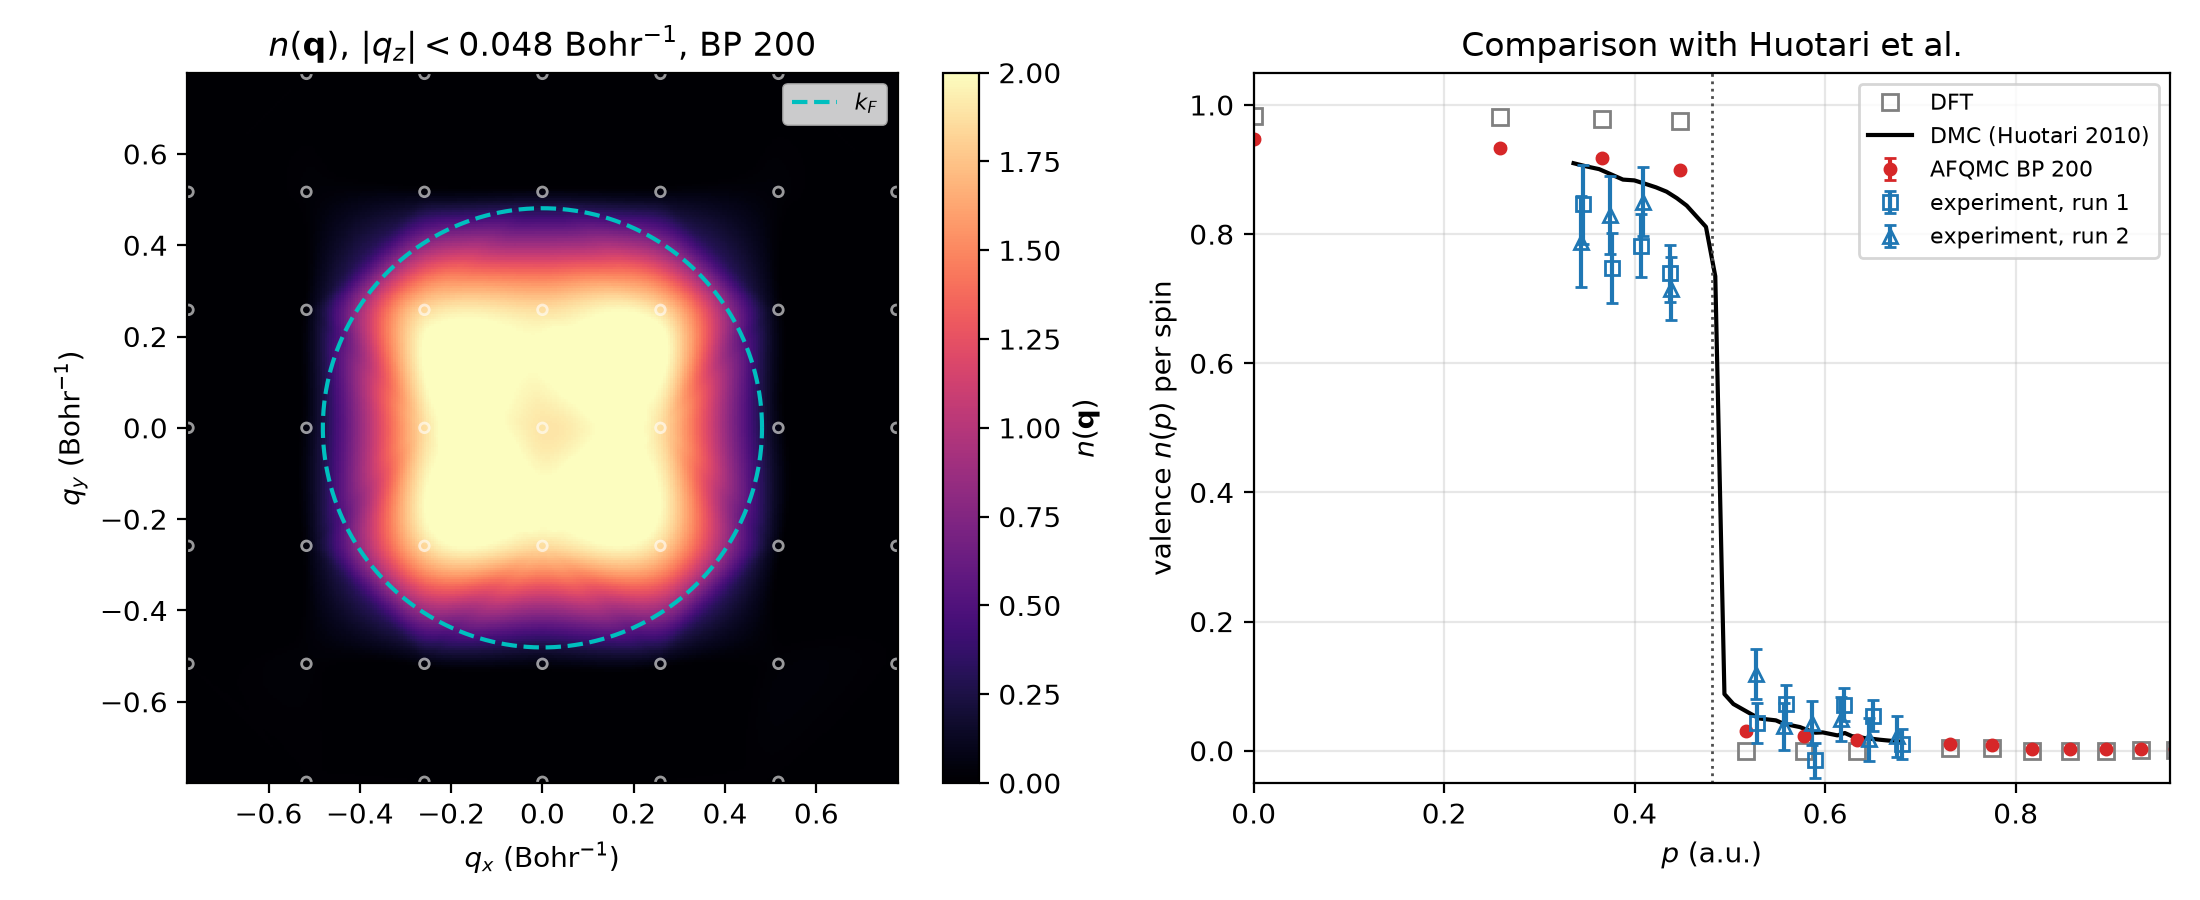
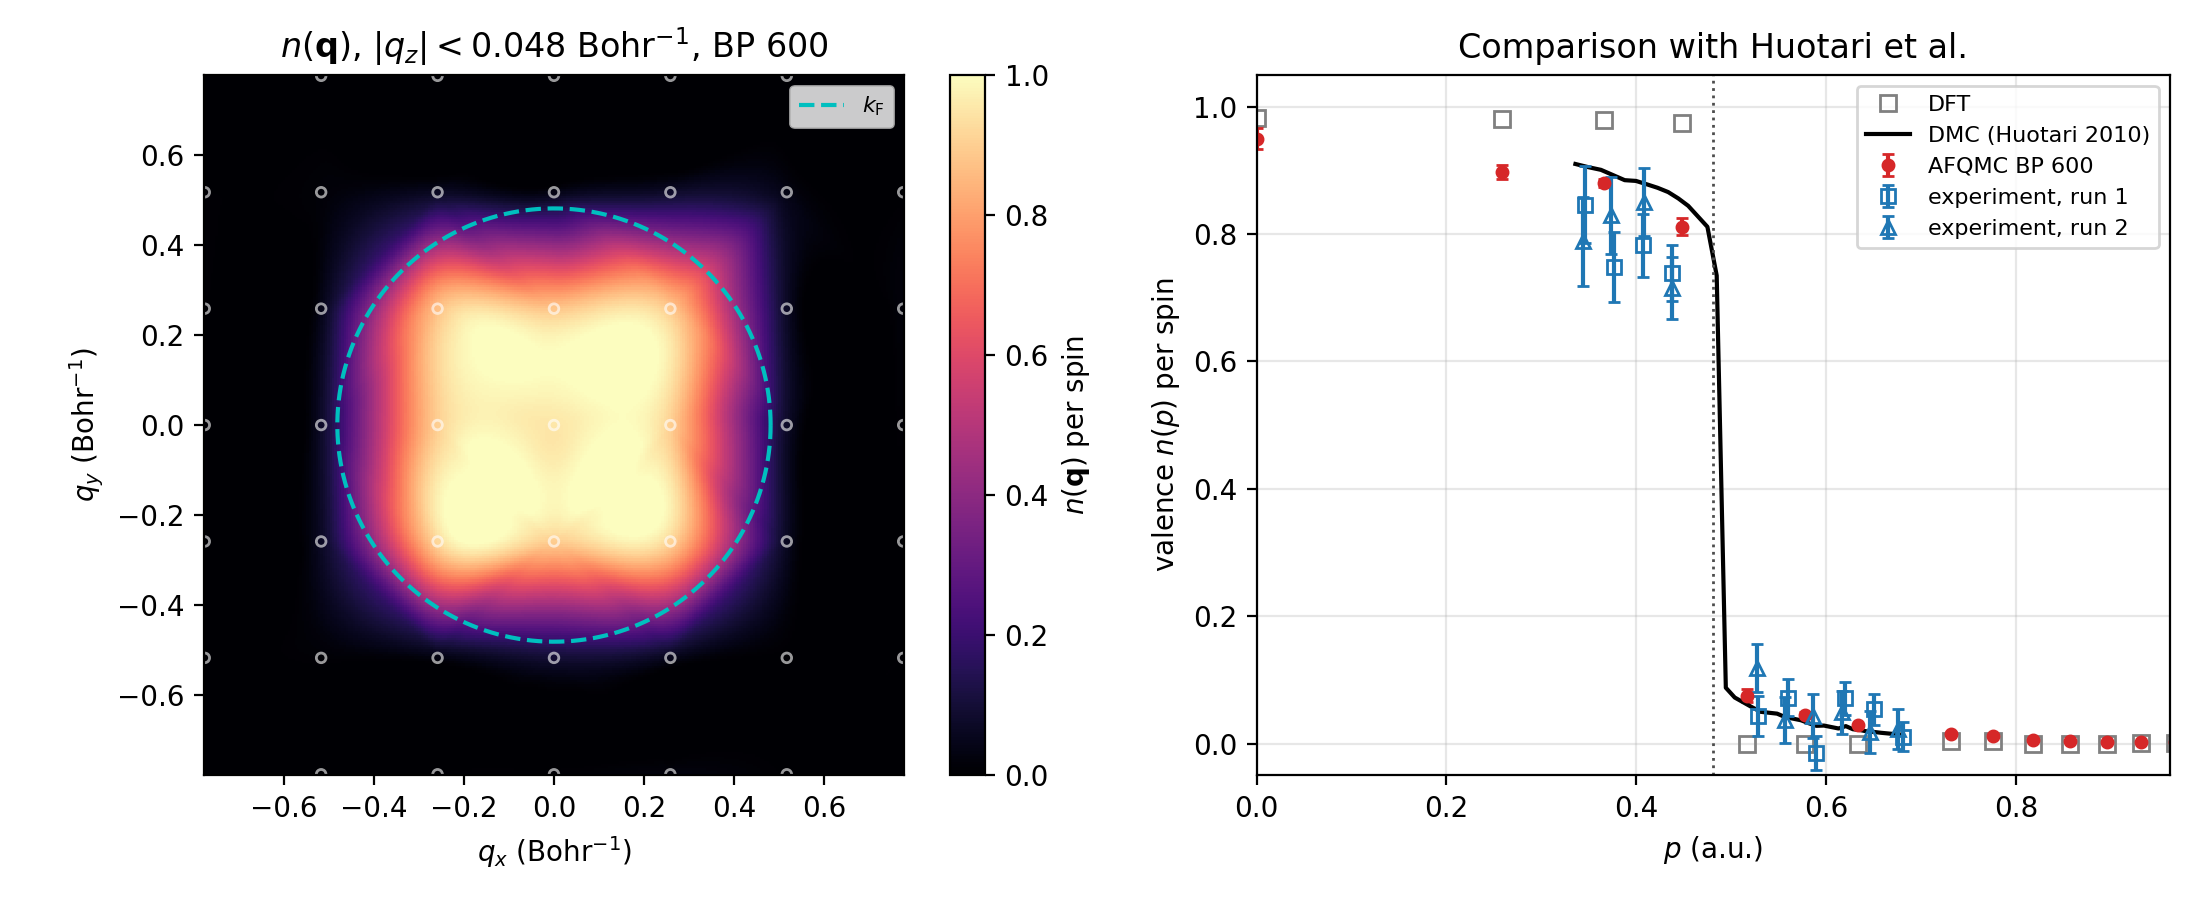
docs/examples: edit solids/03

diff --git a/docs/examples/solids/03_Na_momentum_distribution/files/nq_tools.py b/docs/examples/solids/03_Na_momentum_distribution/files/nq_tools.py
@@ -66,18 +66,18 @@ def fermi_wavevector(volume, n_electrons):
 
 
 def plot_slab(ax, qvecs, nq, k_F):
-    """n(q) in the |q_z| < 0.1 k_F slab, interpolated, with the q-points and the k_F circle."""
+    """Per-spin n(q) in the |q_z| < 0.1 k_F slab, interpolated, with the q-points and the k_F circle."""
     qz_tol = 0.1 * k_F
     slab = (np.abs(qvecs[:, 2]) < qz_tol) & (np.linalg.norm(qvecs, axis=1) < 2 * k_F)
     qx, qy, ns = qvecs[slab, 0], qvecs[slab, 1], nq[slab]
     xi, yi = np.meshgrid(np.linspace(qx.min(), qx.max(), 300),
                          np.linspace(qy.min(), qy.max(), 300))
     grid = np.nan_to_num(griddata((qx, qy), ns, (xi, yi), method="cubic"))
-    pc = ax.pcolormesh(xi, yi, grid, shading="auto", cmap="magma", vmin=0, vmax=2)
-    ax.scatter(qx, qy, c=ns, cmap="magma", vmin=0, vmax=2, s=12, edgecolors="white", alpha=0.6)
-    ax.figure.colorbar(pc, ax=ax, label=r"$n(\mathbf{q})$")
+    pc = ax.pcolormesh(xi, yi, grid, shading="auto", cmap="magma", vmin=0, vmax=1)
+    ax.scatter(qx, qy, c=ns, cmap="magma", vmin=0, vmax=1, s=12, edgecolors="white", alpha=0.6)
+    ax.figure.colorbar(pc, ax=ax, label=r"$n(\mathbf{q})$ per spin")
     t = np.linspace(0, 2 * np.pi, 200)
-    ax.plot(k_F * np.cos(t), k_F * np.sin(t), "c--", lw=1.5, label=r"$k_F$")
+    ax.plot(k_F * np.cos(t), k_F * np.sin(t), "c--", lw=1.5, label=r"$k_\mathrm{F}$")
     ax.set(xlabel=r"$q_x$ (Bohr$^{-1}$)", ylabel=r"$q_y$ (Bohr$^{-1}$)", aspect="equal",
            title=rf"$n(\mathbf{{q}})$, $|q_z| < {qz_tol:.3f}$ Bohr$^{{-1}}$")
     ax.legend(loc="upper right", fontsize=8)

diff --git a/docs/examples/solids/03_Na_momentum_distribution/index.md b/docs/examples/solids/03_Na_momentum_distribution/index.md
@@ -11,7 +11,7 @@ kernelspec:
   name: python3
 ---
 
-# Momentum distribution of solid Na
+# Momentum Distribution of Solid Na
 
 In this example, we compute the valence momentum distribution $n(\mathbf{q})$ of bcc sodium with
 back-propagated AFQMC and compare it with the Compton-scattering experiment and DMC of
@@ -27,7 +27,7 @@ which fill the free-electron shells 1 + 6 + 12 + 8 per spin exactly.
 
 ![](files/Na_bcc_cell.png)
 
-## Momentum distribution from the one-body density matrix
+## Momentum Distribution from the One-Body Density Matrix
 
 SAFIRE measures the one-body density matrix in the basis of Kohn-Sham Bloch orbitals,
 $\rho_{ij}(\mathbf{k}) = \langle c^\dagger_{i\mathbf{k}} c_{j\mathbf{k}} \rangle$, which is block-diagonal in $\mathbf{k}$.
@@ -42,7 +42,6 @@ The density matrix does not commute with the Hamiltonian, so we use the back-pro
 (see {doc}`../../../tutorials/solids/04_computing_observables/04_computing_observables`).
 The plane-wave coefficients come from the QE wavefunction files, and `files/nq_tools.py` does the unfolding.
 
-Each step is skipped when its output already exists in `data/`.
 Set `QE_BIN` to the directory holding `pw.x` and `pw2coqui.x`, and `COQUI_EXEC` and `AFQMC_EXEC` to the
 CoQuí and SAFIRE executables.
 
@@ -54,8 +53,7 @@ from pathlib import Path
 import h5py
 import matplotlib.pyplot as plt
 import numpy as np
-from safiretools import Results, write_jobfile
-from safiretools.wavefunction.base import Wavefunction
+from safiretools import Results, Wavefunction, write_jobfile
 
 from files.nq_tools import fermi_wavevector, plot_slab, radial_average, read_qe_orbitals, unfold_nq
 
@@ -72,13 +70,12 @@ An scf run on an $8\times8\times8$ mesh gives the density, and an nscf run compu
 $3\times3\times3$ mesh without symmetry reduction. `pw2coqui.x` converts the result for CoQuí.
 
 ```{code-cell} ipython3
-if not (data / "1_dft_qe/OUT/pwscf.coqui.h5").exists():
-    !cd {data}/1_dft_qe && mpirun -n {NP} $QE_BIN/pw.x -in scf.in > scf.out
-    !cd {data}/1_dft_qe && mpirun -n {NP} $QE_BIN/pw.x -in nscf.in > nscf.out
-    !cd {data}/1_dft_qe && $QE_BIN/pw2coqui.x -in pw2coqui.in > pw2coqui.out
+!cd {data}/1_dft_qe && mpirun -n {NP} $$QE_BIN/pw.x -in scf.in > scf.out
+!cd {data}/1_dft_qe && mpirun -n {NP} $$QE_BIN/pw.x -in nscf.in > nscf.out
+!cd {data}/1_dft_qe && $$QE_BIN/pw2coqui.x -in pw2coqui.in > pw2coqui.out
 ```
 
-## Step 2: Hamiltonian and trial wavefunction with CoQuí
+## Step 2: Hamiltonian and Trial Wavefunction with CoQuí
 
 CoQuí writes the Hamiltonian in the basis of the lowest 19 bands per k (513 orbitals), with Cholesky-decomposed
 two-electron integrals, and the Kohn-Sham determinant as the trial wavefunction.
@@ -89,8 +86,7 @@ two-electron integrals, and the Kohn-Sham determinant as the trial wavefunction.
 ```
 
 ```{code-cell} ipython3
-if not (data / "2_coqui/hamiltonian.h5").exists():
-    !cd {data}/2_coqui && mpirun -n {NP} $COQUI_EXEC input.toml > coqui.out
+!cd {data}/2_coqui && mpirun -n {NP} $$COQUI_EXEC input.toml > coqui.out
 
 with h5py.File(data / "2_coqui/hamiltonian.h5") as f:
     kpoints = f["System/BZ/kpoints"][...]
@@ -105,50 +101,51 @@ print(f"nk = {nk}, NMO = {nk * M}, k_F = {k_F:.4f} Bohr^-1")
 
 CoQuí writes a collinear trial with identical spin determinants. We rebuild it as a closed-shell trial,
 so that SAFIRE can use closed-shell walkers, which propagate one spin.
-The back-propagated density matrix is measured with 50, 100, 150 and 200 back-propagation steps.
-A new window starts every 200 steps after equilibration, so each length gives one sample per window,
-and `binsize` is 1.
+The back-propagated density matrix is measured at each back-propagation length in `bp_lengths`.
+A new window starts every `max(bp_lengths)` steps after equilibration, so each length gives one sample per window.
 
 ```{code-cell} ipython3
 alpha, beta = Wavefunction.from_hdf5(data / "2_coqui/wfn.h5").determinant(0)
 assert np.allclose(alpha, beta)
 
+bp_lengths = [100, 200]
+# bp_lengths = [100, 200, 400, 600] # takes some time
 write_jobfile(data / "3_safire/afqmc.json", {
     "seed": 7,
     "execute": {
-        "walker_set": {"walker_type": "closed"},
         "wavefunction": Wavefunction.from_single_determinant(alpha),
         "hamiltonian": {"filename": "../2_coqui/hamiltonian.h5"},
         "timestep": 0.01,
         "steps": 5000,
         "equilibration_steps": 600,
-        "binsize": 1,
         "measure_interval": 10,
         "population_control_interval": 10,
         "walker_ortho_interval": 10,
-        "num_walkers": 120,
+        "num_walkers": 40,
         "estimators": {
-            "energy": {"measure_interval": 100},
-            "mixed": {"measure_interval": 100, "onerdm": {}},
-            "backprop": {"propagation_steps": [50, 100, 150, 200], "onerdm": {}},
+            "energy": None,
+            "backprop": {"propagation_steps": bp_lengths, "onerdm": {}},
         },
     },
 })
 ```
 
 ```{code-cell} ipython3
-if not (data / "3_safire/afqmc.results.h5").exists():
-    !cd {data}/3_safire && mpirun -n {NP} $AFQMC_EXEC afqmc.json > afqmc.out
-results = Results(data / "3_safire/afqmc.results.h5")
+:tags: [scroll-output]
+
+!cd {data}/3_safire && mpirun -n {NP} $$AFQMC_EXEC afqmc.json
 ```
 
-## Step 4: Momentum distribution
+## Step 4: Momentum Distribution
 
 We unfold the Kohn-Sham occupations for the DFT $n(\mathbf{q})$, and the back-propagated density matrix inside
 `Results.evaluate` for jackknife error bars on its radial average.
-Each back-propagation length has 22 bins, which we keep with `rebinsize=1`.
+Each BP sample is separated by a window length, so for long window lengths we can assume they are weakly
+correlated and set `rebinsize=1`.
 
 ```{code-cell} ipython3
+results = Results(data / "3_safire/afqmc.results.h5")
+
 qvecs, coeffs = read_qe_orbitals(data / "1_dft_qe/OUT/pwscf.save", kpoints, M)
 qmag = np.linalg.norm(qvecs, axis=1)
 edges = np.linspace(0, 2.5 * k_F, 81)
@@ -160,7 +157,7 @@ def radial_nq(rdm):
 n_dft = radial_nq(np.diag(occ.ravel())[None])
 
 bp = {}
-for L in [50, 100, 150, 200]:
+for L in bp_lengths:
     bp[L] = results.evaluate(radial_nq, [f"BackPropEstimator/Steps={L}/OneRDM"], rebinsize=1)
 above = np.argmax(q_bins > k_F)  # first radial bin above k_F
 print(f"n(q) at |q| = {q_bins[above]:.3f} Bohr^-1: DFT {n_dft[above]:.3f}")
@@ -168,11 +165,9 @@ for L, (n, dn) in bp.items():
     print(f"  BP {L:3d}: {n[above]:.3f} +/- {dn[above]:.3f}")
 ```
 
-Back propagation moves electrons above $k_F$, and the amount still grows with the back-propagation length.
-Back propagation becomes unstable at long lengths, so we use 200 steps ($\tau = 2$ Ha$^{-1}$) and keep in mind
-that the result depends on this choice.
+Back propagation moves electrons above $k_\mathrm{F}$, and the amount still grows with the back-propagation length.
 
-## Comparison with DMC and experiment
+## Comparison with DMC and Experiment
 
 The experimental and DMC data were extracted from Fig. 1 of Huotari *et al.* and are per spin, so we divide ours by 2.
 Our cell has the experimental density, so we compare on absolute momentum.
@@ -184,15 +179,17 @@ with open("files/huotari2010_fig1_nofp.csv") as f:
 def huotari(series, *columns):
     return np.array([[float(r[c]) for c in columns] for r in rows if r["series"] == series]).T
 
-bp_rdm, _ = results.average("BackPropEstimator/Steps=200/OneRDM", rebinsize=1)
+max_bp_length = max(bp_lengths)
+
+bp_rdm, _ = results.average(f"BackPropEstimator/Steps={max_bp_length}/OneRDM", rebinsize=1)
 
 fig, (ax0, ax1) = plt.subplots(1, 2, figsize=(11, 4.5))
-plot_slab(ax0, qvecs, unfold_nq(bp_rdm, coeffs), k_F)
-ax0.set_title(ax0.get_title() + ", BP 200")
+plot_slab(ax0, qvecs, unfold_nq(bp_rdm, coeffs) / 2, k_F)
+ax0.set_title(ax0.get_title() + f", BP {max_bp_length}")
 
 ax1.plot(q_bins, n_dft / 2, "s", color="0.5", mfc="none", ms=6, label="DFT")
-n, dn = bp[200]
-ax1.errorbar(q_bins, n / 2, yerr=dn / 2, fmt="o", color="C3", ms=4, capsize=2, label="AFQMC BP 200")
+n, dn = bp[max_bp_length]
+ax1.errorbar(q_bins, n / 2, yerr=dn / 2, fmt="o", color="C3", ms=4, capsize=2, label=f"AFQMC BP {max_bp_length}")
 p, n = huotari("QMC", "p_au", "n")
 ax1.plot(p, n, "k-", lw=1.5, label="DMC (Huotari 2010)")
 for series, marker, label in [("exp_run1", "s", "experiment, run 1"), ("exp_run2", "^", "experiment, run 2")]:
@@ -209,11 +206,9 @@ fig.savefig(data / "nq_Na.png", dpi=200)
 
 ![](files/nq_Na.png)
 
-The left panel shows the back-propagated $n(\mathbf{q})$ in the $q_z = 0$ plane, with the Fermi sphere dashed.
+The left panel shows the back-propagated $n(\mathbf{q})$ per spin in the $q_z = 0$ plane, with the Fermi sphere
+dashed.
 On the right, our points are drawn without connecting lines, because the $3\times3\times3$ mesh samples only a few
 shells of $|\mathbf{q}|$.
-Back propagation moves the DFT result toward DMC on both sides of $p_F$, but not all the way: just above $p_F$
-its tail is about half of DMC's, and by $1.3\,p_F$ it is close to DMC and within the experimental scatter,
-where DFT gives zero.
-The remaining difference comes from the limits of this calculation: the dependence on the back-propagation
-length, the 19-band basis, and the lack of a finite-size correction.
+At $\tau_\mathrm{BP} = 6$ Ha$^{-1}$ we obtain good agreement with DMC and experiment, but a production run should
+converge the back-propagation length, the basis set, the timestep error, and the population control bias.
